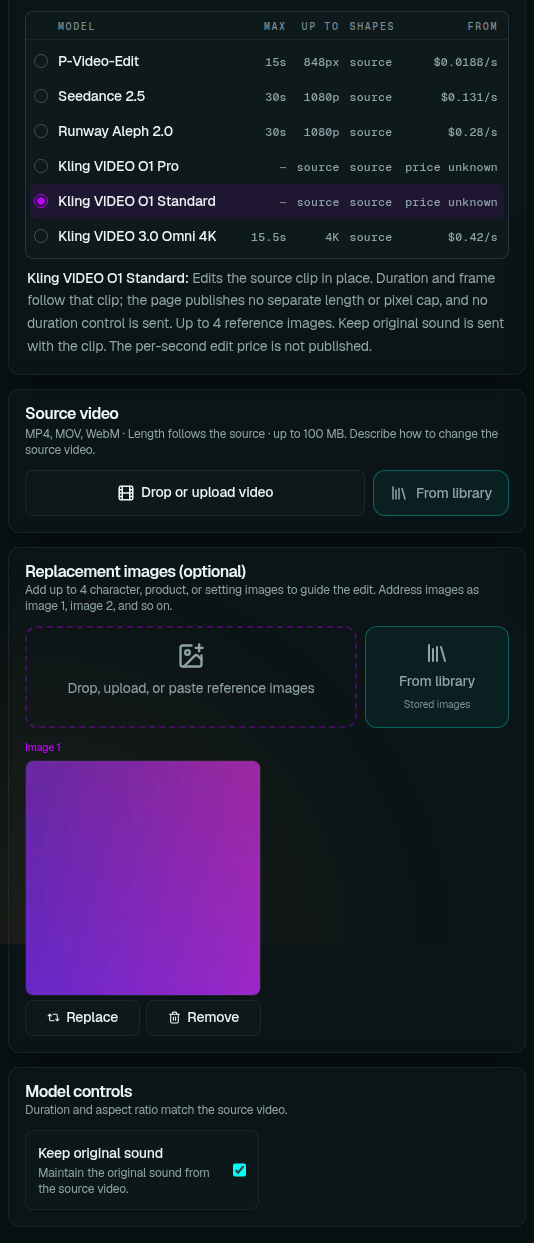
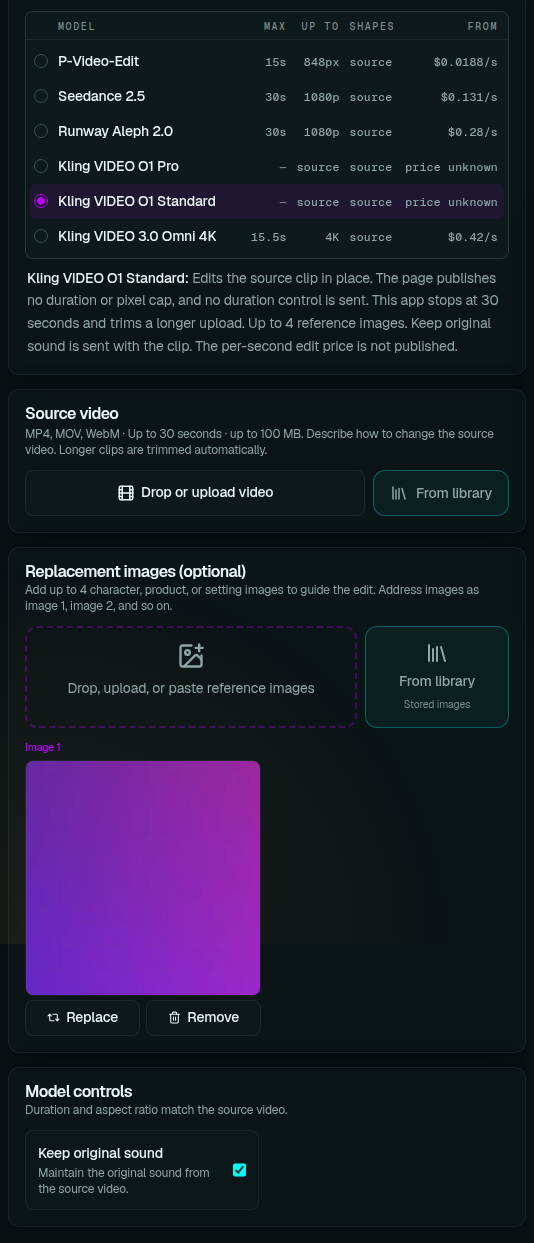
Cap Kling O1 sources at 30 seconds and address review notes
A model with no published duration ceiling now stops at the widest catalog ceiling, so YouTube imports and uploads are trimmed or refused instead of re-encoding an hour of video. Timestamps with more than two decimal places are refused, the anchor field reads its bounds from the catalog, and the guest ledger tests pin measured-edit pricing.

Changed region(s): [[0.0599, 0.214, 0.9288, 0.3057], [0.2097, 0.3363, 0.9288, 0.3669], [0.0599, 0.3363, 0.1798, 0.3669]]

diff --git a/lib/providers/video-edit.ts b/lib/providers/video-edit.ts
@@ -2,6 +2,18 @@
 import type { ProviderModel } from './types';
 /** Application bounds for the first editing release, not vendor storage quotas. */
 export const MAX_EDIT_VIDEO_BYTES = 100_000_000;
+/**
+ * Widest source length a catalog edit page publishes (Aleph and Seedance, 30s).
+ * A model whose page states no ceiling still stops here. Otherwise a YouTube
+ * import only checks that the section fits the video, and the picker skips
+ * auto-trim, so an hour-long clip is re-encoded until the 120s timeout.
+ */
+export const APP_EDIT_SOURCE_MAX_SECONDS = 30;
+
+/** The vendor ceiling, or the app ceiling when the page publishes none. */
+export function editSourceMaxSeconds(capability: Pick<VideoEditCapability, 'maxSeconds'>): number {
+  return capability.maxSeconds ?? APP_EDIT_SOURCE_MAX_SECONDS;
+}
 /** Largest source a catalog model currently publishes (Kling O1/O3 on fal). */
 export const MAX_EDIT_VIDEO_UPLOAD_BYTES = 200_000_000;
 export const EDIT_VIDEO_MIMES = ['video/mp4', 'video/quicktime', 'video/webm'] as const;
@@ -69,11 +81,10 @@ export function editPromptImageTokenError(capability: Pick<VideoEditCapability, 
 
 /** The sentence after "Choose a readable clip ". Seedance stays "between 4 and 30 seconds long". */
 export function editDurationMessage(capability: Pick<VideoEditCapability, 'minSeconds' | 'maxSeconds'>): string {
-  const { minSeconds: min, maxSeconds: max } = capability;
-  if (min !== undefined && max !== undefined) return `between ${min} and ${max} seconds long`;
-  if (max !== undefined) return `up to ${max} seconds long`;
-  if (min !== undefined) return `at least ${min} seconds long`;
-  return 'with a readable duration';
+  const min = capability.minSeconds;
+  const max = editSourceMaxSeconds(capability);
+  if (min !== undefined) return `between ${min} and ${max} seconds long`;
+  return `up to ${max} seconds long`;
 }
 
 /** 0.4 → 1:2.5 and 2.5 → 2.5:1, so Seedance's existing sentence stays intact. */
@@ -83,7 +94,7 @@ function ratioPhrase(ratio: number): string {
     const text = Number.isInteger(inverse) ? String(inverse) : inverse.toFixed(1);
     return `1:${text}`;
   }
-  return `${Number.isInteger(ratio) ? String(ratio) : String(ratio)}:1`;
+  return `${String(ratio)}:1`;
 }
 
 export function editPromptLengthError(capability: Pick<VideoEditCapability, 'minPromptLength' | 'maxPromptLength'>, prompt: string): string | undefined {
@@ -97,8 +108,10 @@ export type FramePin = { frame: (typeof FRAME_VALUES)[number] } | { timestamp: n
 function timestampPin(token: string, capability: VideoEditCapability): { timestamp: number } | string {
   const spec = capability.frameAnchors!.timestamp;
   const raw = token.slice(2);
-  if (!/^\d+(?:\.\d+)?$/.test(raw)) return 'A timestamp is a number of seconds, like t:1.25.';
-  const seconds = Math.round(Number(raw) * 100) / 100;
+  // Two decimal places is the schema's 0.01 precision. Rounding first would
+  // make the step check below unreachable and would move t:1.257 to 1.26.
+  if (!/^\d+(?:\.\d{1,2})?$/.test(raw)) return 'A timestamp is a number of seconds with at most two decimal places, like t:1.25.';
+  const seconds = Number(raw);
   if (!Number.isFinite(seconds) || seconds < spec.min || seconds > spec.max) return `A timestamp must be between ${spec.min} and ${spec.max} seconds.`;
   const steps = (seconds - spec.min) / spec.step;
   if (Math.abs(steps - Math.round(steps)) > 1e-3) return `A timestamp moves in steps of ${spec.step} seconds.`;
@@ -160,12 +173,11 @@ export function pricesEditFromSourceDuration(provider: string, capability?: Vide
   return provider !== 'runware';
 }
 
-/** The source-card sentence. Models with no published ceiling must not say "Up to undefined". */
+/** The source-card sentence. A missing vendor ceiling uses the app maximum, so the card never says "undefined". */
 export function editSourceSummary(capability: VideoEditCapability): string {
   const mimes = editVideoMimes(capability).map((mime) => mime === 'video/mp4' ? 'MP4' : mime === 'video/quicktime' ? 'MOV' : mime === 'video/webm' ? 'WebM' : mime).join(', ');
-  const seconds = capability.maxSeconds === undefined
-    ? (capability.minSeconds !== undefined ? `At least ${capability.minSeconds} seconds` : 'Length follows the source')
-    : capability.minSeconds !== undefined ? `${capability.minSeconds}–${capability.maxSeconds} seconds` : `Up to ${capability.maxSeconds} seconds`;
+  const max = editSourceMaxSeconds(capability);
+  const seconds = capability.minSeconds !== undefined ? `${capability.minSeconds}–${max} seconds` : `Up to ${max} seconds`;
   const bounds = capability.sourceBounds;
   const pixels = bounds?.minEdge !== undefined && bounds.maxEdge !== undefined
     ? ` · ${bounds.minEdge}–${bounds.maxEdge}px`
@@ -205,7 +217,7 @@ export function editSettingsError(capability: VideoEditCapability, values: Recor
 export function validateEditSource(source: {durationSeconds: number; width: number; height: number}, capability: VideoEditCapability): void {
   const {durationSeconds: duration, width, height} = source;
   const min = capability.minSeconds ?? 0;
-  const overMax = capability.maxSeconds !== undefined && duration > capability.maxSeconds;
+  const overMax = duration > editSourceMaxSeconds(capability);
   if (!Number.isFinite(duration) || duration <= 0 || duration < min || overMax || !Number.isFinite(width) || !Number.isFinite(height) || width <= 0 || height <= 0) throw new Error(`Choose a readable clip ${editDurationMessage(capability)}.`);
   const bounds = capability.sourceBounds;
   if (!bounds) return;

diff --git a/components/VideoSourceInput.tsx b/components/VideoSourceInput.tsx
@@ -8,7 +8,7 @@ import YouTubeClipDialog, { type YouTubeClipTarget } from './YouTubeClipDialog';
 import VideoPlayer from './video/VideoPlayer';
 import { probeDimensions, type ProbedDimensions } from '@/lib/timeline/probe';
 import type { ProviderModel } from '@/lib/providers/types';
-import { editSourceSummary, editVideoMimes, validateEditVideo, validateEditSource } from '@/lib/providers/video-edit';
+import { editSourceMaxSeconds, editSourceSummary, editVideoMimes, validateEditVideo, validateEditSource } from '@/lib/providers/video-edit';
 import { formatClock, watchUrl, type ImportedClipSource } from '@/lib/youtube/clip';
 import { discardStagedSource } from '@/lib/account/staged-sources';
 import { useAccountStore } from '@/store/useAccountStore';
@@ -61,18 +61,15 @@ export default function VideoSourceInput({source, onChange, disabled, capability
     try {
       validateEditVideo(file, capability);
       const dimensions = await probeDimensions(file);
-      // A published ceiling is applied by trimming, so the pre-check looks at
-      // pixels and ratio with the length clamped. A model with no ceiling
-      // (Kling O1) keeps the measured length and is not trimmed.
-      const limit = capability.maxSeconds;
-      const precheckDuration = limit === undefined ? dimensions.durationSeconds : Math.min(dimensions.durationSeconds, limit);
+      // Trim to the vendor ceiling, or the app ceiling when the page publishes
+      // none. The pre-check looks at pixels and ratio with that length clamped.
+      const limit = editSourceMaxSeconds(capability);
+      const precheckDuration = Math.min(dimensions.durationSeconds, limit);
       validateEditSource({...dimensions, durationSeconds: precheckDuration}, capability);
       if (turn !== sequence.current) { discardStagedSource(file); return; }
-      const prepared = limit === undefined
-        ? { file, ...dimensions }
-        : await trimVideoToLimit(file, dimensions, limit, {
-          signal: controller.signal, onTrimming: () => setTrimming(true),
-        });
+      const prepared = await trimVideoToLimit(file, dimensions, limit, {
+        signal: controller.signal, onTrimming: () => setTrimming(true),
+      });
       validateEditVideo(prepared.file, capability);
       validateEditSource(prepared, capability);
       if (turn !== sequence.current) { discardStagedSource(file); return; }
@@ -89,7 +86,7 @@ export default function VideoSourceInput({source, onChange, disabled, capability
     } finally { if (turn === sequence.current) { setReading(false); setTrimming(false); } }
   }
   return <section className="glass-card space-y-3 p-3.5 md:p-4">
-    <div><h3 className="display text-base font-semibold">Source video</h3><p className="mt-1 text-xs text-[var(--foreground-muted)]">{editSourceSummary(capability)}{capability.maxSeconds !== undefined ? ' Longer clips are trimmed automatically.' : ''}</p></div>
+    <div><h3 className="display text-base font-semibold">Source video</h3><p className="mt-1 text-xs text-[var(--foreground-muted)]">{editSourceSummary(capability)} Longer clips are trimmed automatically.</p></div>
     {source && <><SourceVideoPreview file={source.file} /><p className="break-all text-xs text-[var(--foreground-muted)]">{source.origin
       ? <a href={watchUrl(source.origin)} target="_blank" rel="noreferrer noopener" className="underline-offset-2 hover:underline">From YouTube · {formatClock(source.origin.startSeconds)}–{formatClock(source.origin.endSeconds)}</a>
       : source.file.name} · {source.durationSeconds.toFixed(1)}s · {source.width} × {source.height}{source.origin?.savedToLibrary ? ' · Saved to library' : ''}</p>

diff --git a/tests/spend/capture.test.ts b/tests/spend/capture.test.ts
@@ -223,6 +223,38 @@ describe('captureProviderJob', () => {
     expect(entries()[0].costUsd).toBeCloseTo(0.242, 6);
   });
 
+  it('keeps a reported Runware cost ahead of the measured edit estimate', () => {
+    captureProviderJob('runware', {
+      ...job, id: 'aleph-billed', modelId: 'runway:aleph@2.0', inputMode: 'edit',
+      controlValues: { sourceDurationSeconds: 6 },
+    }, { taskId: 'x', state: 'success', urls: job.urls, cost: 1.7 });
+    expect(entries().find(entry => entry.id === 'runware-aleph-billed')).toMatchObject({ costUsd: 1.7, confidence: 'exact' });
+  });
+
+  it('leaves a measured edit unknown when the source length was not stored', () => {
+    captureProviderJob('runware', {
+      ...job, id: 'aleph-open', modelId: 'runway:aleph@2.0', inputMode: 'edit',
+      controlValues: {},
+    }, { taskId: 'x', state: 'success', urls: job.urls });
+    expect(entries().find(entry => entry.id === 'runware-aleph-open')).toMatchObject({ costUsd: null, confidence: 'unknown' });
+  });
+
+  it('leaves Kling O1 unknown even when a source length is stored', () => {
+    captureProviderJob('runware', {
+      ...job, id: 'o1-open', modelId: 'klingai:kling@o1', inputMode: 'edit',
+      controlValues: { sourceDurationSeconds: 6 },
+    }, { taskId: 'x', state: 'success', urls: job.urls });
+    expect(entries().find(entry => entry.id === 'runware-o1-open')).toMatchObject({ costUsd: null, confidence: 'unknown' });
+  });
+
+  it('prices a Runware edit from the measured source when the response omits cost', () => {
+    captureProviderJob('runware', {
+      ...job, id: 'aleph-measured', modelId: 'runway:aleph@2.0', inputMode: 'edit',
+      controlValues: { sourceDurationSeconds: 6 },
+    }, { taskId: 'x', state: 'success', urls: job.urls });
+    expect(entries().find(entry => entry.id === 'runware-aleph-measured')?.costUsd).toBeCloseTo(1.68, 6);
+  });
+
   it('floors an Aleph edit at $0.448 and prices a longer clip from the source length', () => {
     captureProviderJob('comet', {
       ...job, provider: 'comet', modelId: 'aleph2', inputMode: 'edit',

diff --git a/tests/providers/video-edit-workspace.test.tsx b/tests/providers/video-edit-workspace.test.tsx
@@ -124,7 +124,8 @@ it('offers Keep original sound on Kling O1 and no duration control', () => {
   render(<ProviderVideoWorkspace provider="runware" label="Runware" inputMode="edit" onBack={() => {}} onOpenConnections={() => {}} />);
   expect(screen.getByRole('checkbox', { name: 'Keep original sound' })).toBeChecked();
   expect(screen.queryByRole('spinbutton', { name: /Duration/ })).toBeNull();
-  expect(screen.getByText(/Length follows the source/)).toBeInTheDocument();
+  expect(screen.getByText(/Up to 30 seconds/)).toBeInTheDocument();
+  expect(screen.getByText(/trimmed automatically/)).toBeInTheDocument();
   expect(screen.getByText(/price is not published/)).toBeInTheDocument();
 });
 
@@ -214,6 +215,18 @@ it.each(['browser', 'account'] as const)('keeps the edit result when switching m
   }
 });
 
+it('trims a Kling O1 upload at the app ceiling', async () => {
+  const capability = findModel('runware', 'klingai:kling@o1')!.videoEdit!;
+  vi.mocked(probeDimensions).mockResolvedValueOnce({ width: 1280, height: 720, durationSeconds: 90 });
+  render(<VideoSourceInput capability={capability} source={null} onChange={vi.fn()} disabled={false} />);
+  fireEvent.change(screen.getByLabelText('Upload source video'), { target: { files: [new File(['clip'], 'long.mp4', { type: 'video/mp4' })] } });
+  await waitFor(() => expect(trimVideoToLimit).toHaveBeenCalledWith(
+    expect.any(File),
+    expect.objectContaining({ durationSeconds: 90 }),
+    30,
+    expect.any(Object),
+  ));
+});
 it('accepts a trimmed source and revalidates the resulting bytes', async () => {
   const capability = {...findModel('runware', 'bytedance:seedance@2.5')!.videoEdit!, maxSeconds:10.05};
   vi.mocked(probeDimensions).mockResolvedValueOnce({width:1280,height:720,durationSeconds:10.08});

diff --git a/cloud/src/edit-source-limits.ts b/cloud/src/edit-source-limits.ts
@@ -16,7 +16,7 @@ import { readContainerVideo } from '../../lib/media/container-duration';
 import { FAL_VIDEO_MODELS } from '../../lib/fal/catalog';
 import { findModel } from '../../lib/providers/catalog';
 import type { ProviderId } from '../../lib/providers/types';
-import { editDurationMessage, editPromptLengthError, editVideoMaxBytes, frameAnchorTimingError, framePinsFor, pricesEditFromSourceDuration, validateEditSource, type VideoEditCapability } from '../../lib/providers/video-edit';
+import { editDurationMessage, editPromptLengthError, editSourceMaxSeconds, editVideoMaxBytes, frameAnchorTimingError, framePinsFor, pricesEditFromSourceDuration, validateEditSource, type VideoEditCapability } from '../../lib/providers/video-edit';
 import { AccountError } from './jobs';
 import { objectByteSize, readObjectRange } from './object-bytes';
 import type { Env } from './security';
@@ -72,7 +72,8 @@ export async function assertEditSourceLimits(env: Env, owner: string, request: C
     throw new AccountError('The source clip\'s length and frame size could not be read, so this edit was not reserved. Use an MP4 or MOV with a duration and a video track in the file.', 400, 'invalid_references');
   }
   const min = limits.minSeconds ?? 0;
-  if (duration !== null && (duration <= 0 || duration < min || (limits.maxSeconds !== undefined && duration > limits.maxSeconds))) {
+  const max = editSourceMaxSeconds(limits);
+  if (duration !== null && (duration <= 0 || duration < min || duration > max)) {
     throw new AccountError(`Choose a readable clip ${editDurationMessage(limits)}.`, 400, 'invalid_references');
   }
   const pricedFromFile = pricesFromMeasuredLength(request, limits);

diff --git a/tests/providers/video-edit.test.ts b/tests/providers/video-edit.test.ts
@@ -5,7 +5,7 @@ import { POST } from '@/app/api/providers/video/route';
 import { runwareCreateVideo } from '@/lib/providers/runware';
 import { findModel } from '@/lib/providers/catalog';
 import { resolveCatalogRate } from '@/lib/spend/resolve';
-import { validateEditVideo, validateEditSource, editSourceSummary } from '@/lib/providers/video-edit';
+import { validateEditVideo, validateEditSource, editSourceSummary, framePinsFor } from '@/lib/providers/video-edit';
 import { buildAccountSpendEntry } from '@/lib/spend/account';
 import { estimateCloudJob } from '@/lib/spend/estimate';
 import type { CloudJobRequest } from '@/lib/account/contracts';
@@ -143,7 +143,10 @@ describe('Runware reference edits', () => {
     expect(o1.videoEdit?.rate).toBeUndefined();
     expect(o1.videoEdit?.maxSeconds).toBeUndefined();
     expect(resolveCatalogRate(o1, 6, 1, { inputMode: 'edit' }).costUsd).toBeNull();
-    expect(editSourceSummary(o1.videoEdit!)).toContain('Length follows the source');
+    expect(editSourceSummary(o1.videoEdit!)).toContain('Up to 30 seconds');
+    const aleph = findModel('runware', 'runway:aleph@2.0')!;
+    expect(framePinsFor('t:1.25', 1, aleph.videoEdit!)).toEqual([{ timestamp: 1.25 }]);
+    expect(framePinsFor('t:1.257', 1, aleph.videoEdit!)).toMatch(/two decimal places/);
     expect(editSourceSummary(o1.videoEdit!)).not.toContain('undefined');
     expect((await send({ ...base, model: 'klingai:kling@o1', prompt: 'A' })).status).toBe(400);
     expect((await send({ ...base, model: 'klingai:kling@o1', images: Array(5).fill(image) })).status).toBe(400);

diff --git a/lib/youtube/clip.ts b/lib/youtube/clip.ts
@@ -2,6 +2,7 @@
 import { PROVIDER_MODELS, findModel } from '../providers/catalog';
 import type { ProviderId, ProviderModel } from '../providers/types';
 import { FAL_VIDEO_MODELS } from '../fal/catalog';
+import { editSourceMaxSeconds } from '../providers/video-edit';
 
 /** Imports per account per rolling hour, shared by the browser and every agent, so
  *  connecting more agents does not raise the proxy bill. */
@@ -89,9 +90,9 @@ export function importBounds(edit?: { provider: string; modelId: string }): Impo
       ? FAL_VIDEO_MODELS.find(model => model.id === edit.modelId)?.variants.find(variant => variant.inputMode === 'edit')?.edit
       : Object.hasOwn(PROVIDER_MODELS, edit.provider) ? findModel(edit.provider as ProviderId, edit.modelId)?.videoEdit : undefined;
     if (!capability) return null;
-    // No published ceiling stays unbounded for this model. It must not widen the
-    // fallback range below, which is the widest ceiling a page actually states.
-    return { minSeconds: Math.max(MIN_SECTION_SECONDS, capability.minSeconds ?? 0), maxSeconds: capability.maxSeconds ?? Number.POSITIVE_INFINITY, capability };
+    // A page with no ceiling still stops at the app maximum. Leaving it open
+    // let a one-hour section through, and the importer only checks end > start.
+    return { minSeconds: Math.max(MIN_SECTION_SECONDS, capability.minSeconds ?? 0), maxSeconds: editSourceMaxSeconds(capability), capability };
   }
   const all = [
     ...Object.values(PROVIDER_MODELS).flat().flatMap(model => model.videoEdit ? [model.videoEdit] : []),

diff --git a/lib/providers/catalog.ts b/lib/providers/catalog.ts
@@ -32,7 +32,9 @@ import type {
  * https://runware.ai/docs/models/klingai-video-o1-pro and
  * https://runware.ai/docs/models/klingai-video-o1-standard.
  * inputs.video publishes no duration or pixel ceiling ("dimensions and duration
- * match the input video"). referenceImages is at most 4 once a video is set.
+ * match the input video"). The app still stops at 30 seconds, the widest
+ * published edit ceiling, so an import or upload cannot run unbounded.
+ * referenceImages is at most 4 once a video is set.
  * The per-second edit price is not on the page: the headline is "from", the
  * tables are text/image/reference-to-video, and the video-edit examples omit
  * duration. No rate is stored.
@@ -46,7 +48,7 @@ const KLING_O1_EDIT: NonNullable<ProviderModel['videoEdit']> = {
   transport: 'kling-reference',
   plainReferences: true,
   outputLabel: 'source',
-  note: 'Edits the source clip in place. Duration and frame follow that clip; the page publishes no separate length or pixel cap, and no duration control is sent. Up to 4 reference images. Keep original sound is sent with the clip. The per-second edit price is not published.',
+  note: 'Edits the source clip in place. The page publishes no duration or pixel cap, and no duration control is sent. This app stops at 30 seconds and trims a longer upload. Up to 4 reference images. Keep original sound is sent with the clip. The per-second edit price is not published.',
 };
 
 const RUNWARE_MODELS: ProviderModel[] = [

diff --git a/tests/youtube/clip.test.ts b/tests/youtube/clip.test.ts
@@ -59,12 +59,13 @@ describe('bounds', () => {
     expect(rangeProblem(0, 15.1, bounds)).toMatch(/Choose a section/);
   });
   it('falls back to the widest catalog range', () => expect(importBounds()).toEqual({ minSeconds: 1, maxSeconds: 30 }));
-  it('does not let a model with no published ceiling widen that fallback', () => {
+  it('caps a model with no published ceiling at the app maximum', () => {
     const open = importBounds({ provider: 'runware', modelId: 'klingai:kling@o1' });
-    expect(open?.maxSeconds).toBe(Number.POSITIVE_INFINITY);
+    expect(open?.maxSeconds).toBe(30);
     expect(importBounds()?.maxSeconds).toBe(30);
-    expect(rangeProblem(0, 120, open!)).toBeNull();
-    expect(rangeProblem(0, 0.5, open!)).toMatch(/at least 1/);
+    expect(rangeProblem(0, 30, open!)).toBeNull();
+    expect(rangeProblem(0, 120, open!)).toMatch(/between 1 and 30/);
+    expect(rangeProblem(0, 0.5, open!)).toMatch(/between 1 and 30/);
   });
   it('explains every out-of-range section', () => {
     const bounds = importBounds({ provider: 'runware', modelId: 'bytedance:seedance@2.5' })!;

diff --git a/components/FrameAnchorControl.tsx b/components/FrameAnchorControl.tsx
@@ -14,11 +14,13 @@ export type FrameAnchorChoice = (typeof CHOICES)[number]['value'];
 
 /** Where one reference image lands in the source clip. Automatic leaves the pin off the request. */
 export default function FrameAnchorControl({
-  index, choice, timestamp, onChange, disabled,
+  index, choice, timestamp, limits, onChange, disabled,
 }: {
   index: number;
   choice: FrameAnchorChoice;
   timestamp: string;
+  /** Catalog bounds for the timestamp field, so a second model does not inherit Aleph's 0–30. */
+  limits: { min: number; max: number; step: number };
   onChange: (next: { choice: FrameAnchorChoice; timestamp: string }) => void;
   disabled?: boolean;
 }) {
@@ -43,9 +45,9 @@ export default function FrameAnchorControl({
           <input
             aria-label={`Timestamp for image ${index + 1}`}
             type="number"
-            min={0}
-            max={30}
-            step={0.01}
+            min={limits.min}
+            max={limits.max}
+            step={limits.step}
             className="w-full"
             disabled={disabled}
             value={timestamp}

diff --git a/cloud/tests/video-edit.test.ts b/cloud/tests/video-edit.test.ts
@@ -230,6 +230,8 @@ it('submits Kling O1 with reference images and no invented duration or price inp
   const image = await upload('owner', 'image/png');
   const unread = await upload();
   expect(() => validateRequest(env, { ...runwareEdit('klingai:kling@o1', 'source'), prompt: 'A' })).toThrow(/at least 2/);
+  const long = await stageClip(60, 1280, 720);
+  await expect(acceptJob(env, 'owner', 'kling-o1-long-token', validateRequest(env, runwareEdit('klingai:kling@o1', long)))).rejects.toThrow(/up to 30/);
   const job = await acceptJob(env, 'owner', 'kling-o1-ok-token', validateRequest(env, runwareEdit('klingai:kling@o1', unread, { keepOriginalSound: false }, [image])));
   expect(JSON.parse(job.request_json).values.sourceDurationSeconds).toBeUndefined();
   const fetch = vi.fn().mockResolvedValue(Response.json({ data: [{}] }));

diff --git a/components/ProviderVideoWorkspace.tsx b/components/ProviderVideoWorkspace.tsx
@@ -948,6 +948,7 @@ export default function ProviderVideoWorkspace({
                       index={index}
                       choice={anchorById[reference.id]?.choice ?? 'auto'}
                       timestamp={anchorById[reference.id]?.timestamp ?? ''}
+                      limits={selectedModel!.videoEdit!.frameAnchors!.timestamp}
                       disabled={isSubmitting}
                       onChange={(next) => setAnchorById((current) => ({ ...current, [reference.id]: next }))}
                     />
